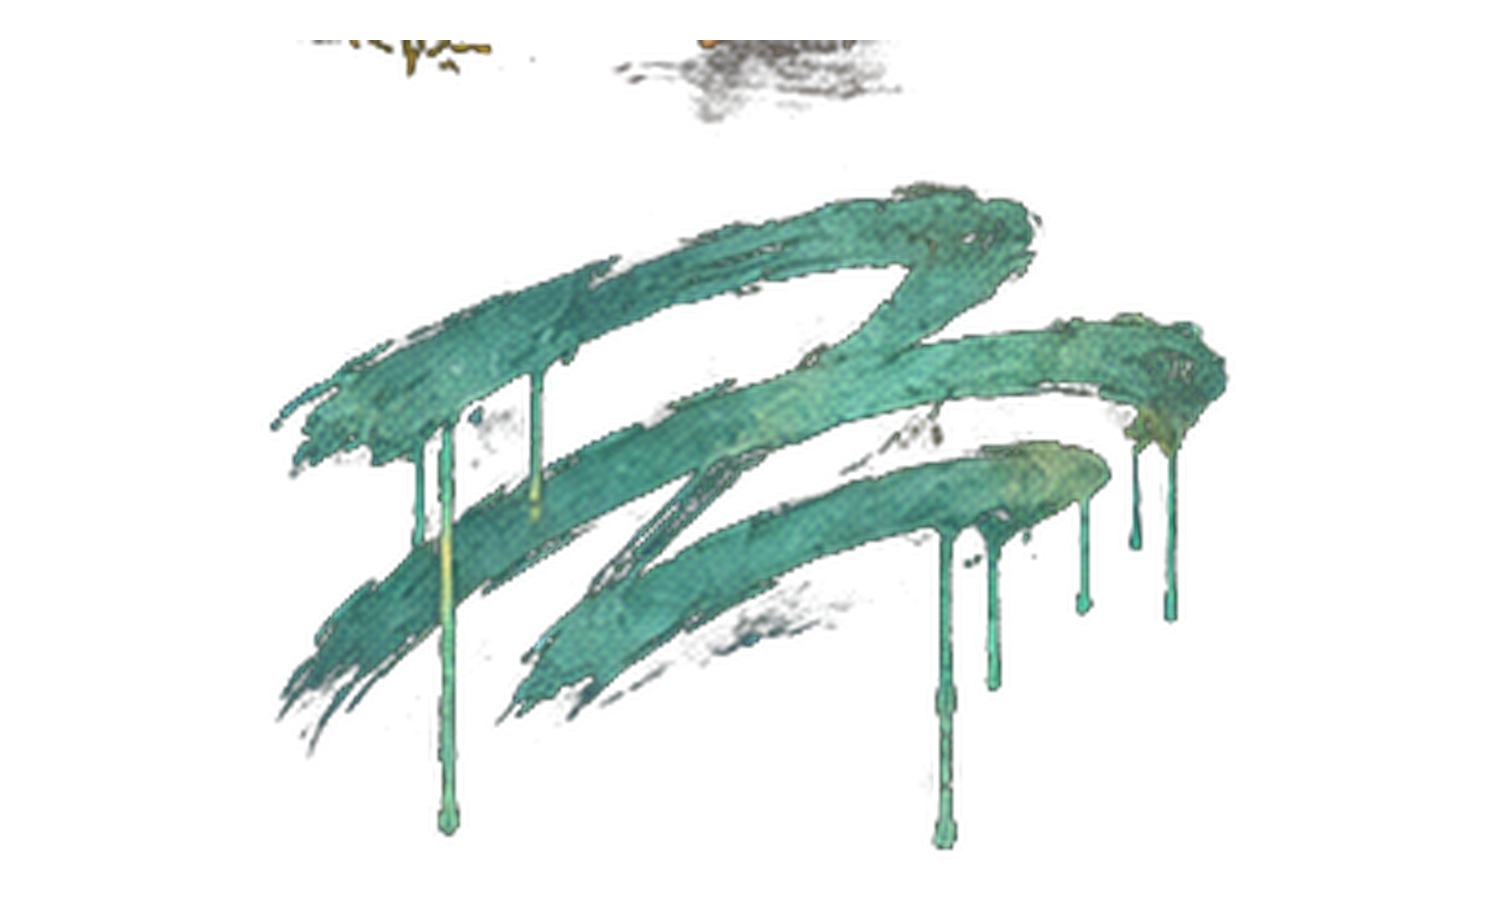
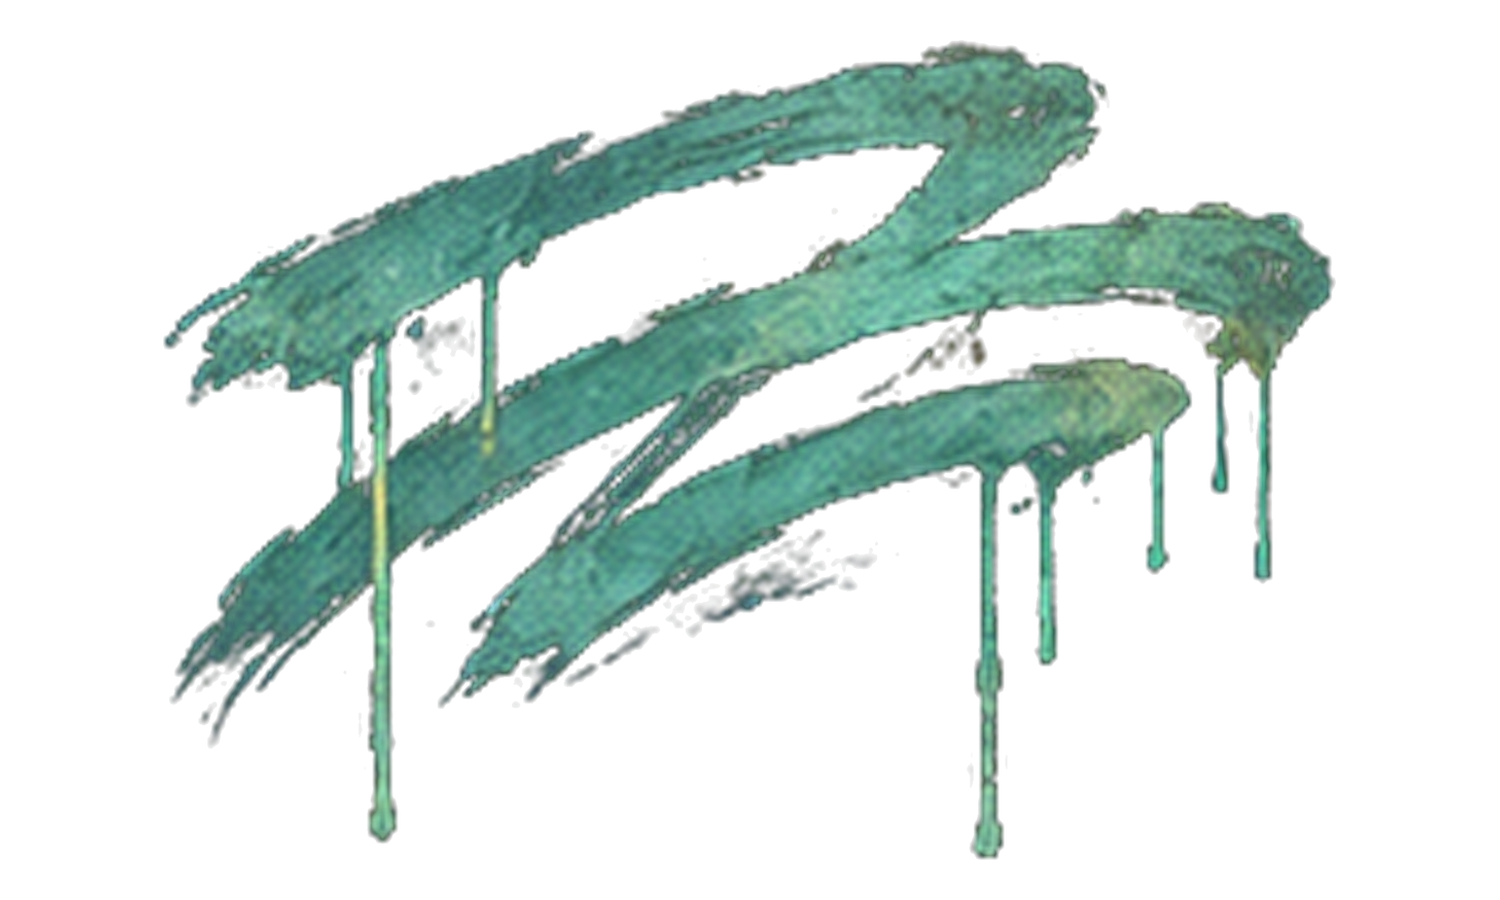
Painted beanies: use trimmed emblem files (removes paint flecks on Born Ready and Urban)
Claude-Session: https://claude.ai/code/session_01T2BjBwV7d2vTxpMeBzrFvG

diff --git a/printify/create_painted_beanies.py b/printify/create_painted_beanies.py
@@ -1,7 +1,7 @@
 """Painted beanies (2026-11-20): the collection emblems exactly as painted (no thread simplification), DTF-printed on
 the Port Authority C939 100% Cotton Beanie (blueprint 5254, Printify Choice 99, print area front_dtf 1500x900,
 cost $11.17, US shipping $5.09). Black, Graphite, Navy (all it comes in), $27. Sold alongside the embroidered
-beanies from create_hats.py (owner's call). Art: designs/pants-2026/<slug>-subtle.png, fitted into 1400x820.
+beanies from create_hats.py (owner's call). Art: designs/pants-2026/print/<slug>-subtle.png (trimmed), fitted into 1400x820.
 Usage: python3 printify/create_painted_beanies.py   (creates + publishes, ids in printify/hats.json; skips done ones)"""
 import base64, io, json, os, time
 from PIL import Image
@@ -10,7 +10,7 @@ from create_hats import COLLECTIONS, DONE, SHOP, PRICE, ROOT
 
 BLUEPRINT, PROVIDER, POSITION = 5254, 99, "front_dtf"
 CANVAS, BOX = (1500, 900), (1400, 820)
-ART = os.path.join(ROOT, "designs/pants-2026")
+ART = os.path.join(ROOT, "designs/pants-2026/print")  # trimmed emblems (raw files carry paint flecks)
 OUT = os.path.join(ROOT, "designs/hats-2026/print")
 FEATURES = ("<ul><li>Port Authority 100% cotton knit beanie, no cuff</li>"
             "<li>Full-colour print of the original painted artwork</li>"
